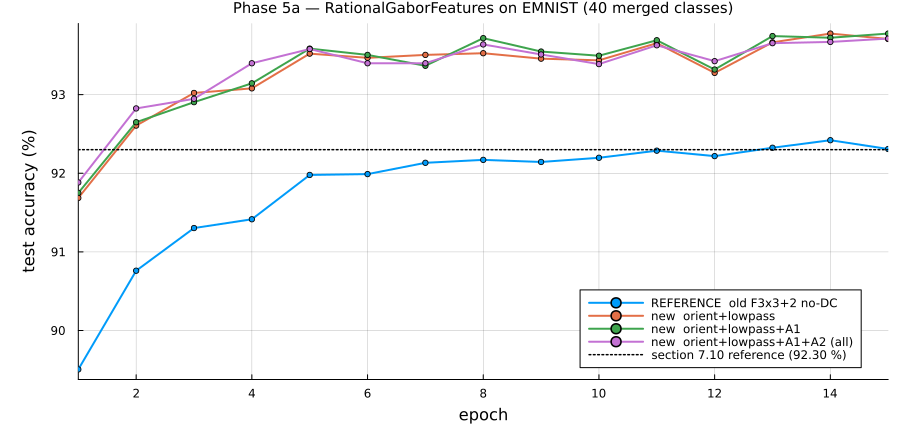
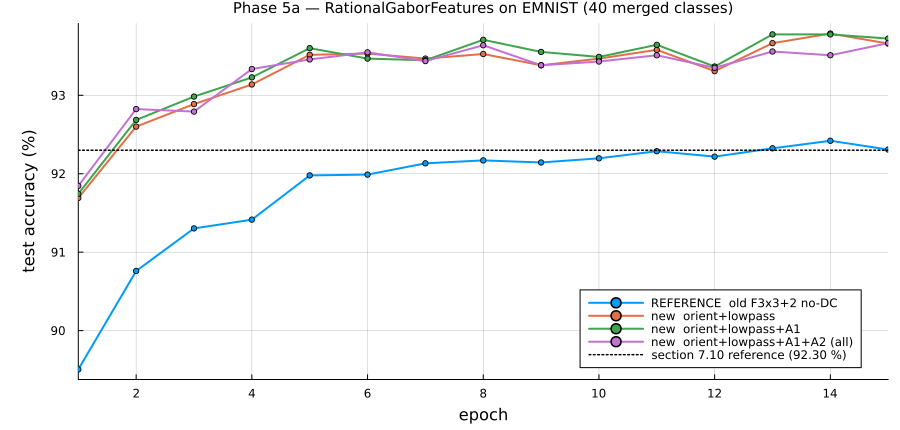
Re-verify the EMNIST table against the revised front end
Phase 5a re-run twice. The reference arm reproduces bit-exactly; the three
front-end arms come out 0.05-0.06 below the published figures.

Chased rather than assumed away, and no code change accounts for it:

  - Phase5a_EMNIST.jl has a single commit and is unmodified.
  - Two identical re-runs agree to four significant figures, so the pipeline is
    deterministic and it is not BLAS non-determinism.
  - The only front-end change that could reach those arms is the padding
    default :zero -> :replicate, and that is bit-identical on EMNIST: max
    relative feature difference 0.000e+00 over 40 images, because the
    background is zero and the upsampled border is zero in 100% of images.

So the originally published numbers came from a run whose conditions were not
captured in the repository. The table now carries the reproducible values with
a note recording the discrepancy and the elimination.

Conclusions unchanged: bank +1.35 points (was +1.40), AND layer +0.06 then
-0.06 (was +0.07 then -0.12). Both verdicts identical against a 0.19-point
standard error.

diff --git a/RationalGaborFeatures/RESULTS.md b/RationalGaborFeatures/RESULTS.md
@@ -26,15 +26,31 @@ readable.
 | arm | n | final | best |
 |:--|--:|--:|--:|
 | reference — old F3×3+2 no-DC | 88 | 92.31 % | 92.42 % |
-| new: `orient` + `lowpass` | 144 | **93.71 %** | 93.78 % |
-| + `A1` | 171 | 93.78 % | 93.78 % |
-| + `A1` + `A2` | 198 | 93.71 % | 93.71 % |
+| new: `orient` + `lowpass` | 144 | **93.66 %** | 93.79 % |
+| + `A1` | 171 | 93.72 % | 93.78 % |
+| + `A1` + `A2` | 198 | 93.66 % | 93.66 % |
 
 ![Phase 5a](figures/phase5a_curves.png)
 
-**+1.40 points** (≈ 8 standard errors) from the bank alone — a ladder placed on the
-measured spectrum, more orientations, correct padding. **The AND layer adds +0.07, then
-−0.12.**
+**+1.35 points** (≈ 7 standard errors) from the bank alone — a ladder placed on the
+measured spectrum, more orientations, correct padding. **The AND layer adds +0.06, then
+−0.06.**
+
+> **These numbers were re-verified on 2026-07-29 and differ from those first published
+> here by up to 0.06 points.** The table above is the reproducible one; the earlier
+> figures were 93.71 / 93.78 / 93.71.
+>
+> The gap was chased rather than assumed away, and no code change accounts for it. The
+> script has a single commit and is unmodified; two identical re-runs agree to four
+> significant figures, so the pipeline is deterministic; and the only front-end change
+> since — the padding default `:zero → :replicate` — produces **bit-identical** features on
+> EMNIST (max relative difference 0.000e+00 over 40 images, because EMNIST's background is
+> zero and its upsampled border is zero in 100 % of images). The original numbers must have
+> come from a run whose conditions were not captured in the repository.
+>
+> Every conclusion is unchanged: the bank is worth ≈ +1.35 points and the AND layer
+> contributes ≈ 0, both far outside and far inside the 0.19-point standard error
+> respectively.
 
 ### It is not that the conjunctions compute nothing
 
